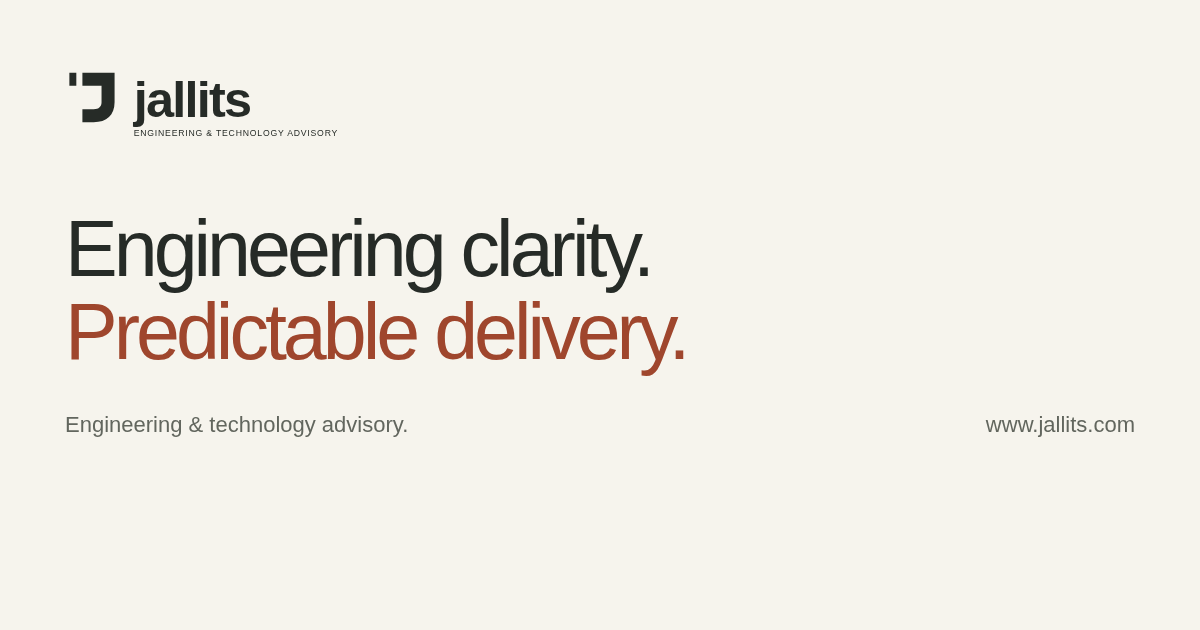
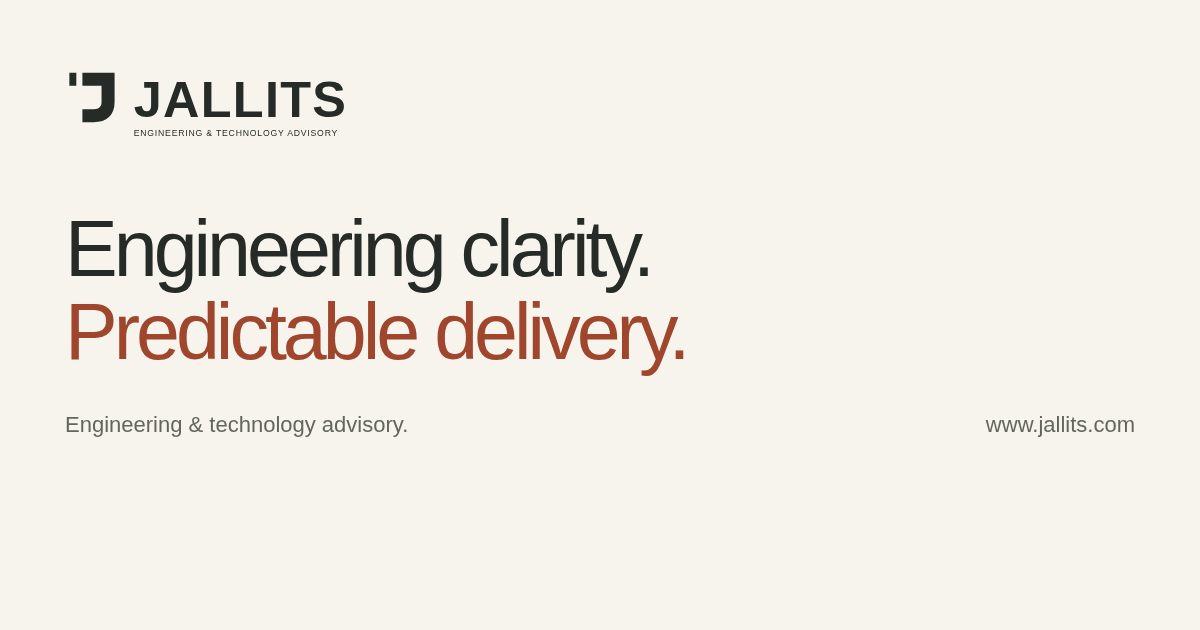
feat(site): balance AI guidance and refine branding
Add responsible AI adoption guidance to fractional engineering
leadership so all five service cards have a consistent structure.

Use an uppercase JALLITS wordmark with wider letter spacing across the
header, footer, reusable logo, and social sharing image.

Changed region(s): [[0.0925, 0.1206, 0.3083, 0.2111]]

diff --git a/index.html b/index.html
@@ -194,7 +194,7 @@ h3 { font-size: 27px; line-height: 1.2; font-weight: 500; letter-spacing: -.8px;
 <body>
   <a class="skip-link" href="#main">Skip to content</a>
   <header class="header wrap">
-    <a class="brand" href="#" aria-label="Jallits home"><svg class="wordmark" width="224" height="58" xmlns="http://www.w3.org/2000/svg" viewBox="0 0 345 90" aria-hidden="true"><g fill="#262b27"><path d="M20 9h37v34c0 15-9 23-24 23H20V51h13c6 0 9-3 9-8V24H20zM5 9h8v15H5z"/><text x="79" y="60" font-family="Arial,Helvetica,sans-serif" font-size="58" font-weight="600" letter-spacing="-2">jallits</text><text x="79" y="82" font-family="Arial,Helvetica,sans-serif" font-size="10" letter-spacing=".9">ENGINEERING &amp; TECHNOLOGY ADVISORY</text></g></svg></a>
+    <a class="brand" href="#" aria-label="Jallits home"><svg class="wordmark" width="224" height="58" xmlns="http://www.w3.org/2000/svg" viewBox="0 0 345 90" aria-hidden="true"><g fill="#262b27"><path d="M20 9h37v34c0 15-9 23-24 23H20V51h13c6 0 9-3 9-8V24H20zM5 9h8v15H5z"/><text x="79" y="60" font-family="Arial,Helvetica,sans-serif" font-size="58" font-weight="600" letter-spacing="1.5">JALLITS</text><text x="79" y="82" font-family="Arial,Helvetica,sans-serif" font-size="10" letter-spacing=".9">ENGINEERING &amp; TECHNOLOGY ADVISORY</text></g></svg></a>
     <nav aria-label="Main navigation"><a href="#services">Services</a><a href="#approach">Approach</a><a href="#about">About</a><a class="nav-connect" href="#connect">Let’s talk <svg class="arrow" viewBox="0 0 24 24" aria-hidden="true"><path d="M6 18 18 6M6 6h12v12"/></svg></a></nav>
   </header>
   <main id="main">
@@ -212,7 +212,7 @@ h3 { font-size: 27px; line-height: 1.2; font-weight: 500; letter-spacing: -.8px;
       <div class="section-heading"><div><p class="eyebrow">01 / HOW WE HELP</p><h2 id="services-title">The right support.<br>Where it matters most.</h2></div><p>From an honest assessment<br>to a practical path forward.</p></div>
       <div class="service-grid">
         <article class="service-card"><span class="service-number">01 / ASSESS</span><h3>Engineering Effectiveness<br>Assessments</h3><p>Understand where delivery breaks down. Assess engineering practices, team alignment, and operational maturity to identify the constraints that matter.</p><p class="ai-use"><span>WHERE AI FITS</span>Assess where AI-assisted development can reduce friction, then measure its effect on quality, review effort, and delivery flow. Diagnose process and organizational constraints before recommending tools.</p><div class="service-outcome"><span>THE FOCUS</span>A clear baseline and prioritized improvements.</div></article>
-        <article class="service-card"><span class="service-number">02 / LEAD</span><h3>Fractional Engineering<br>Leadership</h3><p>Bring experienced leadership to growth, change, or delivery instability. Align teams, strengthen accountability, and guide execution without permanent executive headcount.</p><div class="service-outcome"><span>THE FOCUS</span>Direction, alignment, and sustainable execution.</div></article>
+        <article class="service-card"><span class="service-number">02 / LEAD</span><h3>Fractional Engineering<br>Leadership</h3><p>Bring experienced leadership to growth, change, or delivery instability. Align teams, strengthen accountability, and guide execution without permanent executive headcount.</p><p class="ai-use"><span>WHERE AI FITS</span>Guide AI adoption with clear ownership, team enablement, and practical guardrails. Use pilots to evaluate value and review effort; leadership judgment, people development, and accountability stay with people.</p><div class="service-outcome"><span>THE FOCUS</span>Direction, alignment, and sustainable execution.</div></article>
         <article class="service-card"><span class="service-number">03 / MODERNIZE</span><h3>Platform<br>Modernization</h3><p>Build a practical roadmap for evolving platforms and architecture. Address maintainability, reliability, and observability while managing modernization risk.</p><p class="ai-use"><span>WHERE AI FITS</span>Use AI selectively to explore unfamiliar code, draft documentation, and propose migration tests. Validate outputs against actual system behavior; architecture decisions and migration ownership remain with your engineers.</p><div class="service-outcome"><span>THE FOCUS</span>Platforms that support the next stage of growth.</div></article>
         <article class="service-card"><span class="service-number">04 / TRANSFORM</span><h3>DevSecOps<br>Transformation</h3><p>Improve how software moves from development to production. Align delivery practices, security, and operations to build a more mature engineering system.</p><p class="ai-use"><span>WHERE AI FITS</span>Evaluate AI for test drafting, security finding triage, and incident analysis. Keep human review, security controls, and reliable automation in place; verify whether it improves delivery rather than adding operational risk.</p><div class="service-outcome"><span>THE FOCUS</span>More reliable delivery and operational confidence.</div></article>
         <article class="service-card"><span class="service-number">05 / ALIGN</span><h3>Technology Strategy<br>Advisory</h3><p>Connect technology decisions to business priorities. Clarify strategy, governance, and investment choices so platform evolution and organizational structure move together.</p><p class="ai-use"><span>WHERE AI FITS</span>Evaluate AI opportunities against business value, data sensitivity, governance, and total cost. Compare with simpler alternatives, run bounded pilots, and scale only when the evidence supports it.</p><div class="service-outcome"><span>THE FOCUS</span>A shared direction grounded in business outcomes.</div></article>
@@ -231,6 +231,6 @@ h3 { font-size: 27px; line-height: 1.2; font-weight: 500; letter-spacing: -.8px;
     </div><div class="code-links"><a class="text-link" href="https://github.com/jallits">Jallits on GitHub <svg class="arrow" viewBox="0 0 24 24" aria-hidden="true"><path d="M6 18 18 6M6 6h12v12"/></svg></a><a class="text-link" href="https://github.com/djallits">Dan’s work on GitHub <svg class="arrow" viewBox="0 0 24 24" aria-hidden="true"><path d="M6 18 18 6M6 6h12v12"/></svg></a></div></section>
     <section id="connect" class="contact" aria-labelledby="connect-title"><div class="wrap contact-grid"><div><p class="eyebrow">05 / LET’S TALK</p><h2 id="connect-title">What’s standing between<br>you and predictable delivery?</h2><p>Tell us about the challenge, the pressure you’re facing,<br class="desktop-break"> and what a better outcome would look like.</p></div><div class="contact-action"><a class="button" href="https://www.linkedin.com/in/djallits">Connect with Dan on LinkedIn <svg class="arrow" viewBox="0 0 24 24" aria-hidden="true"><path d="M6 18 18 6M6 6h12v12"/></svg></a><p>Start a conversation about your organization.</p><a class="company-link personal-site" href="https://dan.jallits.com/">Learn more about Dan <svg class="arrow" viewBox="0 0 24 24" aria-hidden="true"><path d="M6 18 18 6M6 6h12v12"/></svg></a><a class="company-link" href="https://www.linkedin.com/company/jallits">Visit the Jallits company page <svg class="arrow" viewBox="0 0 24 24" aria-hidden="true"><path d="M6 18 18 6M6 6h12v12"/></svg></a></div></div></section>
   </main>
-  <footer class="footer wrap"><a class="brand" href="#" aria-label="Back to top"><svg class="wordmark" width="190" height="50" xmlns="http://www.w3.org/2000/svg" viewBox="0 0 345 90" aria-hidden="true"><g fill="#262b27"><path d="M20 9h37v34c0 15-9 23-24 23H20V51h13c6 0 9-3 9-8V24H20zM5 9h8v15H5z"/><text x="79" y="60" font-family="Arial,Helvetica,sans-serif" font-size="58" font-weight="600" letter-spacing="-2">jallits</text><text x="79" y="82" font-family="Arial,Helvetica,sans-serif" font-size="10" letter-spacing=".9">ENGINEERING &amp; TECHNOLOGY ADVISORY</text></g></svg></a><p>Clarity. Accountability. Sustainable execution.</p><a href="https://github.com/jallits/jallits.github.io">View this site on GitHub <svg class="arrow" viewBox="0 0 24 24" aria-hidden="true"><path d="M6 18 18 6M6 6h12v12"/></svg></a></footer>
+  <footer class="footer wrap"><a class="brand" href="#" aria-label="Back to top"><svg class="wordmark" width="190" height="50" xmlns="http://www.w3.org/2000/svg" viewBox="0 0 345 90" aria-hidden="true"><g fill="#262b27"><path d="M20 9h37v34c0 15-9 23-24 23H20V51h13c6 0 9-3 9-8V24H20zM5 9h8v15H5z"/><text x="79" y="60" font-family="Arial,Helvetica,sans-serif" font-size="58" font-weight="600" letter-spacing="1.5">JALLITS</text><text x="79" y="82" font-family="Arial,Helvetica,sans-serif" font-size="10" letter-spacing=".9">ENGINEERING &amp; TECHNOLOGY ADVISORY</text></g></svg></a><p>Clarity. Accountability. Sustainable execution.</p><a href="https://github.com/jallits/jallits.github.io">View this site on GitHub <svg class="arrow" viewBox="0 0 24 24" aria-hidden="true"><path d="M6 18 18 6M6 6h12v12"/></svg></a></footer>
 </body>
 </html>

diff --git a/README.md b/README.md
@@ -6,7 +6,7 @@ Assessments, Fractional Engineering Leadership, Platform Modernization,
 DevSecOps Transformation, and Technology Strategy Advisory. LinkedIn provides
 the contact path; open source work is supporting content.
 
-The new identity pairs a geometric J symbol with the full Jallits wordmark
+The new identity pairs a geometric J symbol with the uppercase JALLITS wordmark
 and an engineering and technology advisory descriptor. Reusable logo and
 social sharing assets live in `assets/`. The header and footer embed the SVG
 wordmark directly so HTML previews do not need a separate logo request.
@@ -54,7 +54,8 @@ is needed; `.nojekyll` is included.
 - Personal X: https://x.com/danjallits
 - Personal code: https://github.com/djallits
 
-AI guidance is specific to assessments, modernization, DevSecOps, and strategy.
+AI guidance covers all five services, including responsible adoption under
+fractional engineering leadership.
 It emphasizes measured value, simpler alternatives, and human accountability.
 
 Keep project descriptions aligned with their repository documentation. The
